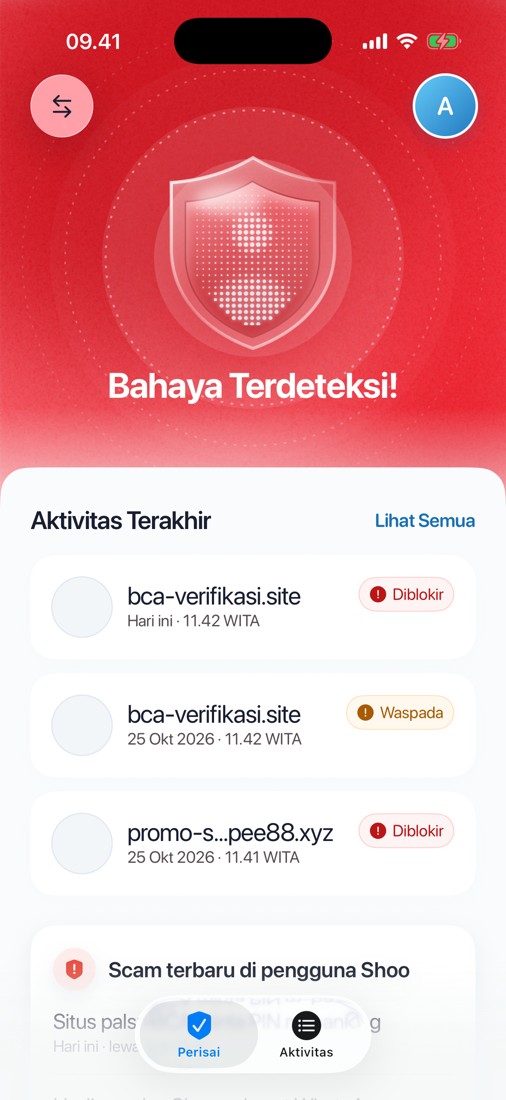
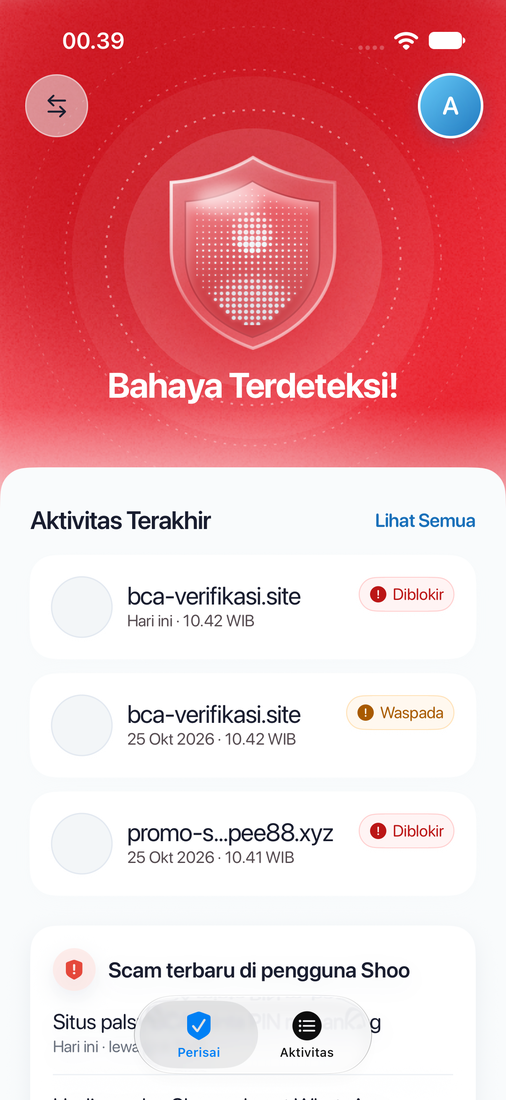
fix(GD-01): frosted ⇆ switch on every hero, "!" shield on family alerts
The ⇆ switch used the system Liquid Glass, which makes its content vibrant
and took the hero's own colour (vivid red on "Bahaya"). Figma lays grey and
white fills over it: a plain light frost (~57% light grey over the hero) now
matches Figma on blue, amber, red, teal and crimson.

Family "Bahaya" and "Butuh Konfirmasi" heroes show "!" in the halftone dots
(Figma 955:10662 / 957:11099) instead of the person. After screenshots updated.

diff --git a/ios/ShooApp/Components/HalftoneShield.swift b/ios/ShooApp/Components/HalftoneShield.swift
@@ -236,10 +236,11 @@ private struct ShieldPalette {
         coreBottom: ActivityStyle.hex(0x05737C), coreStroke: ActivityStyle.hex(0x0D8F93),
         dots: on.dots
     )
+    /// A family site waits (orange, crimson): "!" in the dots instead of the person.
     static let orange = ShieldPalette(
         glow: ActivityStyle.hex(0xFF8C00), coreTop: ActivityStyle.hex(0xFFD27A),
         coreBottom: ActivityStyle.hex(0xE07800), coreStroke: ActivityStyle.hex(0xC46700),
-        dots: on.dots
+        dots: decode(alertDots)
     )
     /// Figma "Pribadi/Home · Waspada" 955:10394, "· Bahaya" 955:10492, "Guardian/Home · Bahaya" 955:10658.
     static let amber = ShieldPalette(
@@ -255,7 +256,7 @@ private struct ShieldPalette {
     static let crimson = ShieldPalette(
         glow: ActivityStyle.hex(0xFF0011), coreTop: ActivityStyle.hex(0xFF7A83),
         coreBottom: ActivityStyle.hex(0xE0000F), coreStroke: ActivityStyle.hex(0xC4000D),
-        dots: on.dots
+        dots: decode(alertDots)
     )
 
     static func palette(for tint: HalftoneShield.Tint) -> ShieldPalette {
@@ -296,6 +297,21 @@ private struct ShieldPalette {
     0,0,0,100,120,130,135,135,138,138,138,138,135,132,120,100,0,0,0|0,0,0,0,125,130,133,133,135,135,135,133,135,130,123,0,0,0,0|\
     0,0,0,0,0,125,130,130,130,130,130,130,130,125,0,0,0,0,0|0,0,0,0,0,0,128,130,127,127,130,130,125,0,0,0,0,0,0|\
     0,0,0,0,0,0,0,0,123,125,123,0,0,0,0,0,0,0,0
+    """
+
+    /// Figma 955:10662 / 957:11099 ("Guardian/Home · Bahaya" and "Keluarga butuh konfirmasi", "!" in the dots).
+    private static let alertDots = """
+    0,0,0,0,0,0,0,0,0,35,0,0,0,0,0,0,0,0,0|0,0,0,0,0,0,0,39,39,39,39,35,0,0,0,0,0,0,0|\
+    0,0,0,0,35,39,43,39,43,51,43,43,39,39,39,0,0,0,0|31,35,35,39,43,39,43,47,59,90,59,43,47,43,39,39,35,31,35|\
+    31,35,39,39,43,47,47,47,94,122,94,51,47,43,43,43,39,39,35|35,39,43,43,47,47,51,51,122,137,118,51,47,51,47,43,43,39,35|\
+    39,39,43,47,51,55,51,55,137,141,133,59,55,51,47,47,43,39,35|39,43,47,47,51,55,59,63,145,145,141,63,55,55,51,47,43,43,39|\
+    39,43,47,51,51,55,59,71,145,149,149,71,63,59,55,51,47,43,43|39,43,47,51,59,63,63,71,149,149,149,71,63,59,55,51,47,47,43|\
+    39,47,51,55,59,63,67,67,149,153,149,67,63,59,55,51,51,47,43|39,47,51,55,59,63,67,71,145,153,145,67,63,59,55,51,51,47,43|\
+    39,43,51,55,59,63,67,67,125,149,125,67,63,59,55,51,51,47,43|39,43,47,51,55,55,59,63,94,129,94,67,63,59,55,51,47,47,43|\
+    0,43,47,51,51,55,59,63,63,90,63,59,63,59,55,51,47,43,0|0,43,43,47,51,55,59,59,86,122,86,59,55,51,51,47,43,39,0|\
+    0,0,43,47,51,55,51,59,137,141,141,59,55,51,47,47,43,0,0|0,0,43,43,43,47,51,63,137,137,137,59,47,51,47,43,43,0,0|\
+    0,0,0,39,43,47,47,47,98,122,98,51,47,43,43,39,0,0,0|0,0,0,0,43,39,43,43,43,43,47,43,43,43,39,0,0,0,0|\
+    0,0,0,0,0,0,43,39,43,43,39,43,39,0,0,0,0,0,0|0,0,0,0,0,0,0,0,39,39,39,0,0,0,0,0,0,0,0
     """
 
     /// Figma 480:5596 (shield "off", a power symbol in the dots).

diff --git a/ios/ShooApp/Features/Shield/HomeChrome.swift b/ios/ShooApp/Features/Shield/HomeChrome.swift
@@ -295,17 +295,22 @@ struct HomeProfileToolbarItem: ToolbarContent {
     }
 }
 
-/// Liquid Glass on iOS 26, frosted material before; a solid circle with "Kurangi efek kaca".
+/// Frosted circle; a solid circle with "Kurangi efek kaca".
+/// Figma "Liquid Glass - Regular - Small" lays grey and white fills over the glass, so it reads as light frost on
+/// every hero (about 57% light grey over 43% hero colour). The system `glassEffect` and materials make their content
+/// vibrant and turn it into the hero's own colour instead (vivid red on "Bahaya"), so the frost is a plain fill.
 private struct HomeGlassCircle: ViewModifier {
     @Environment(\.shooReduceGlass) private var reduceGlass
 
     func body(content: Content) -> some View {
         if reduceGlass {
             content.background(.white, in: Circle())
-        } else if #available(iOS 26.0, *) {
-            content.glassEffect(.regular.interactive(), in: Circle())
         } else {
-            content.background(.ultraThinMaterial, in: Circle())
+            content.background {
+                Circle()
+                    .fill(Color(white: 0.9).opacity(0.57))
+                    .overlay(Circle().strokeBorder(.white.opacity(0.45), lineWidth: 1))
+            }
         }
     }
 }
